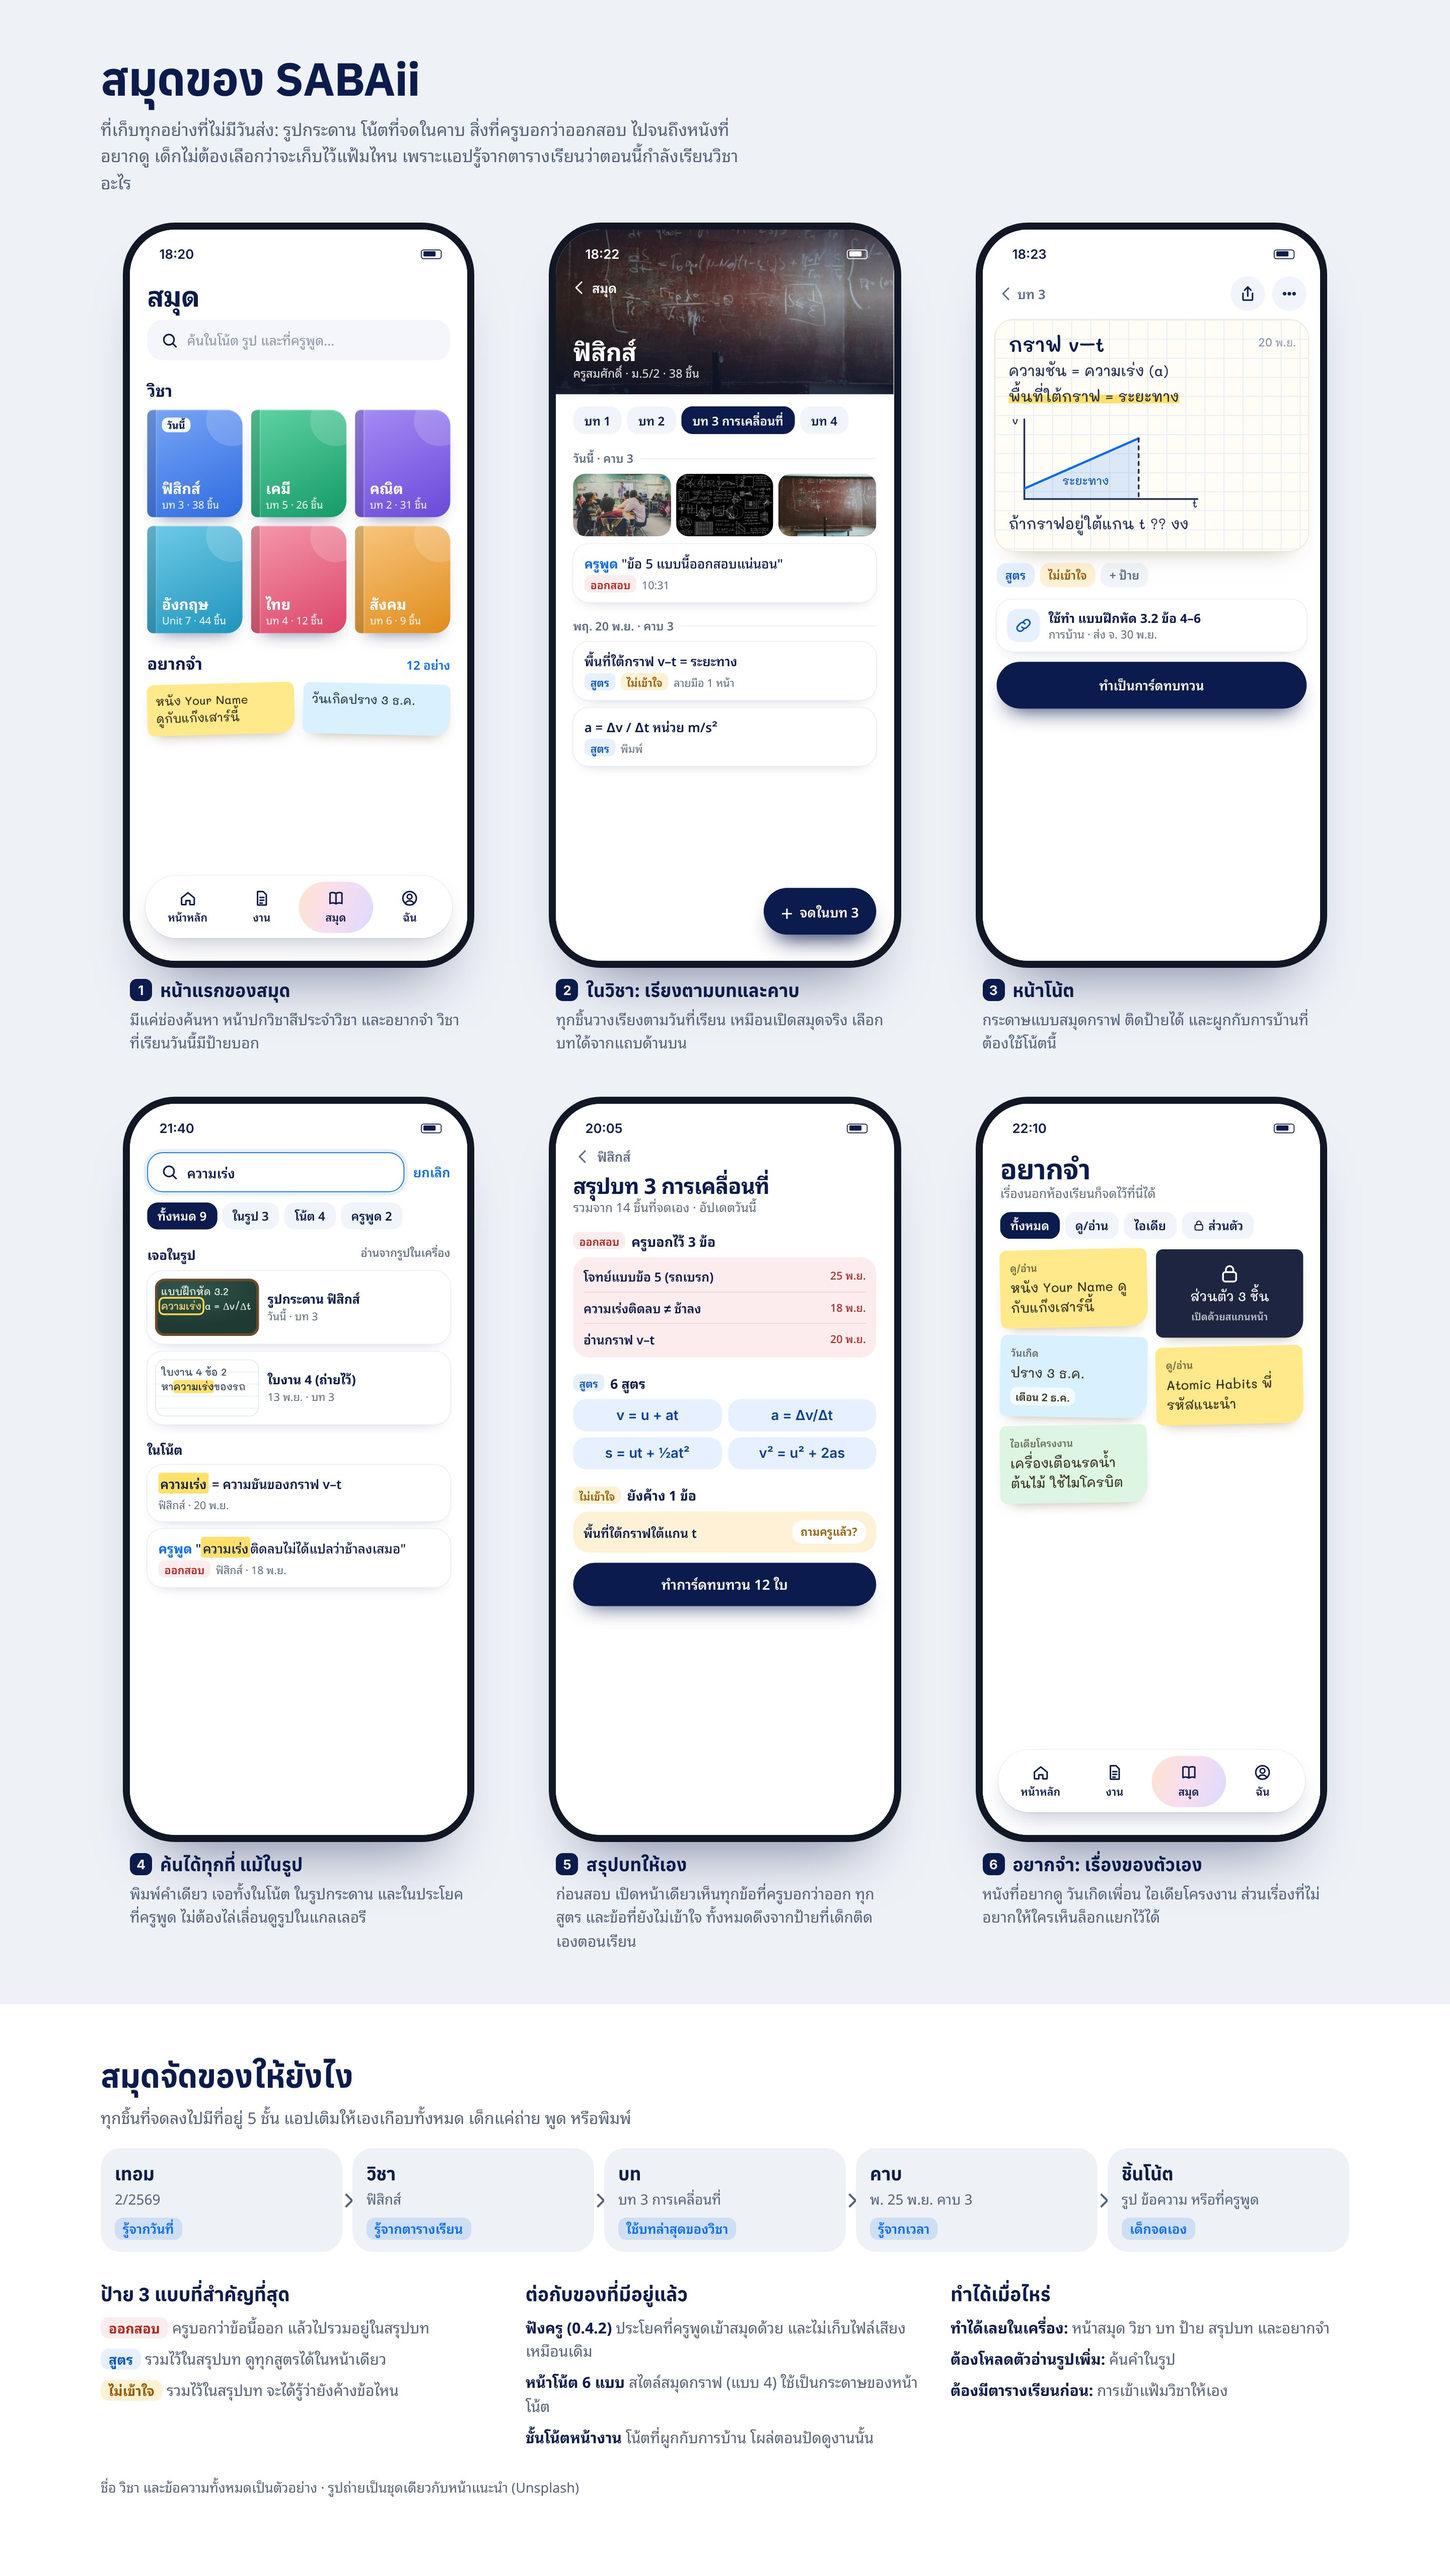
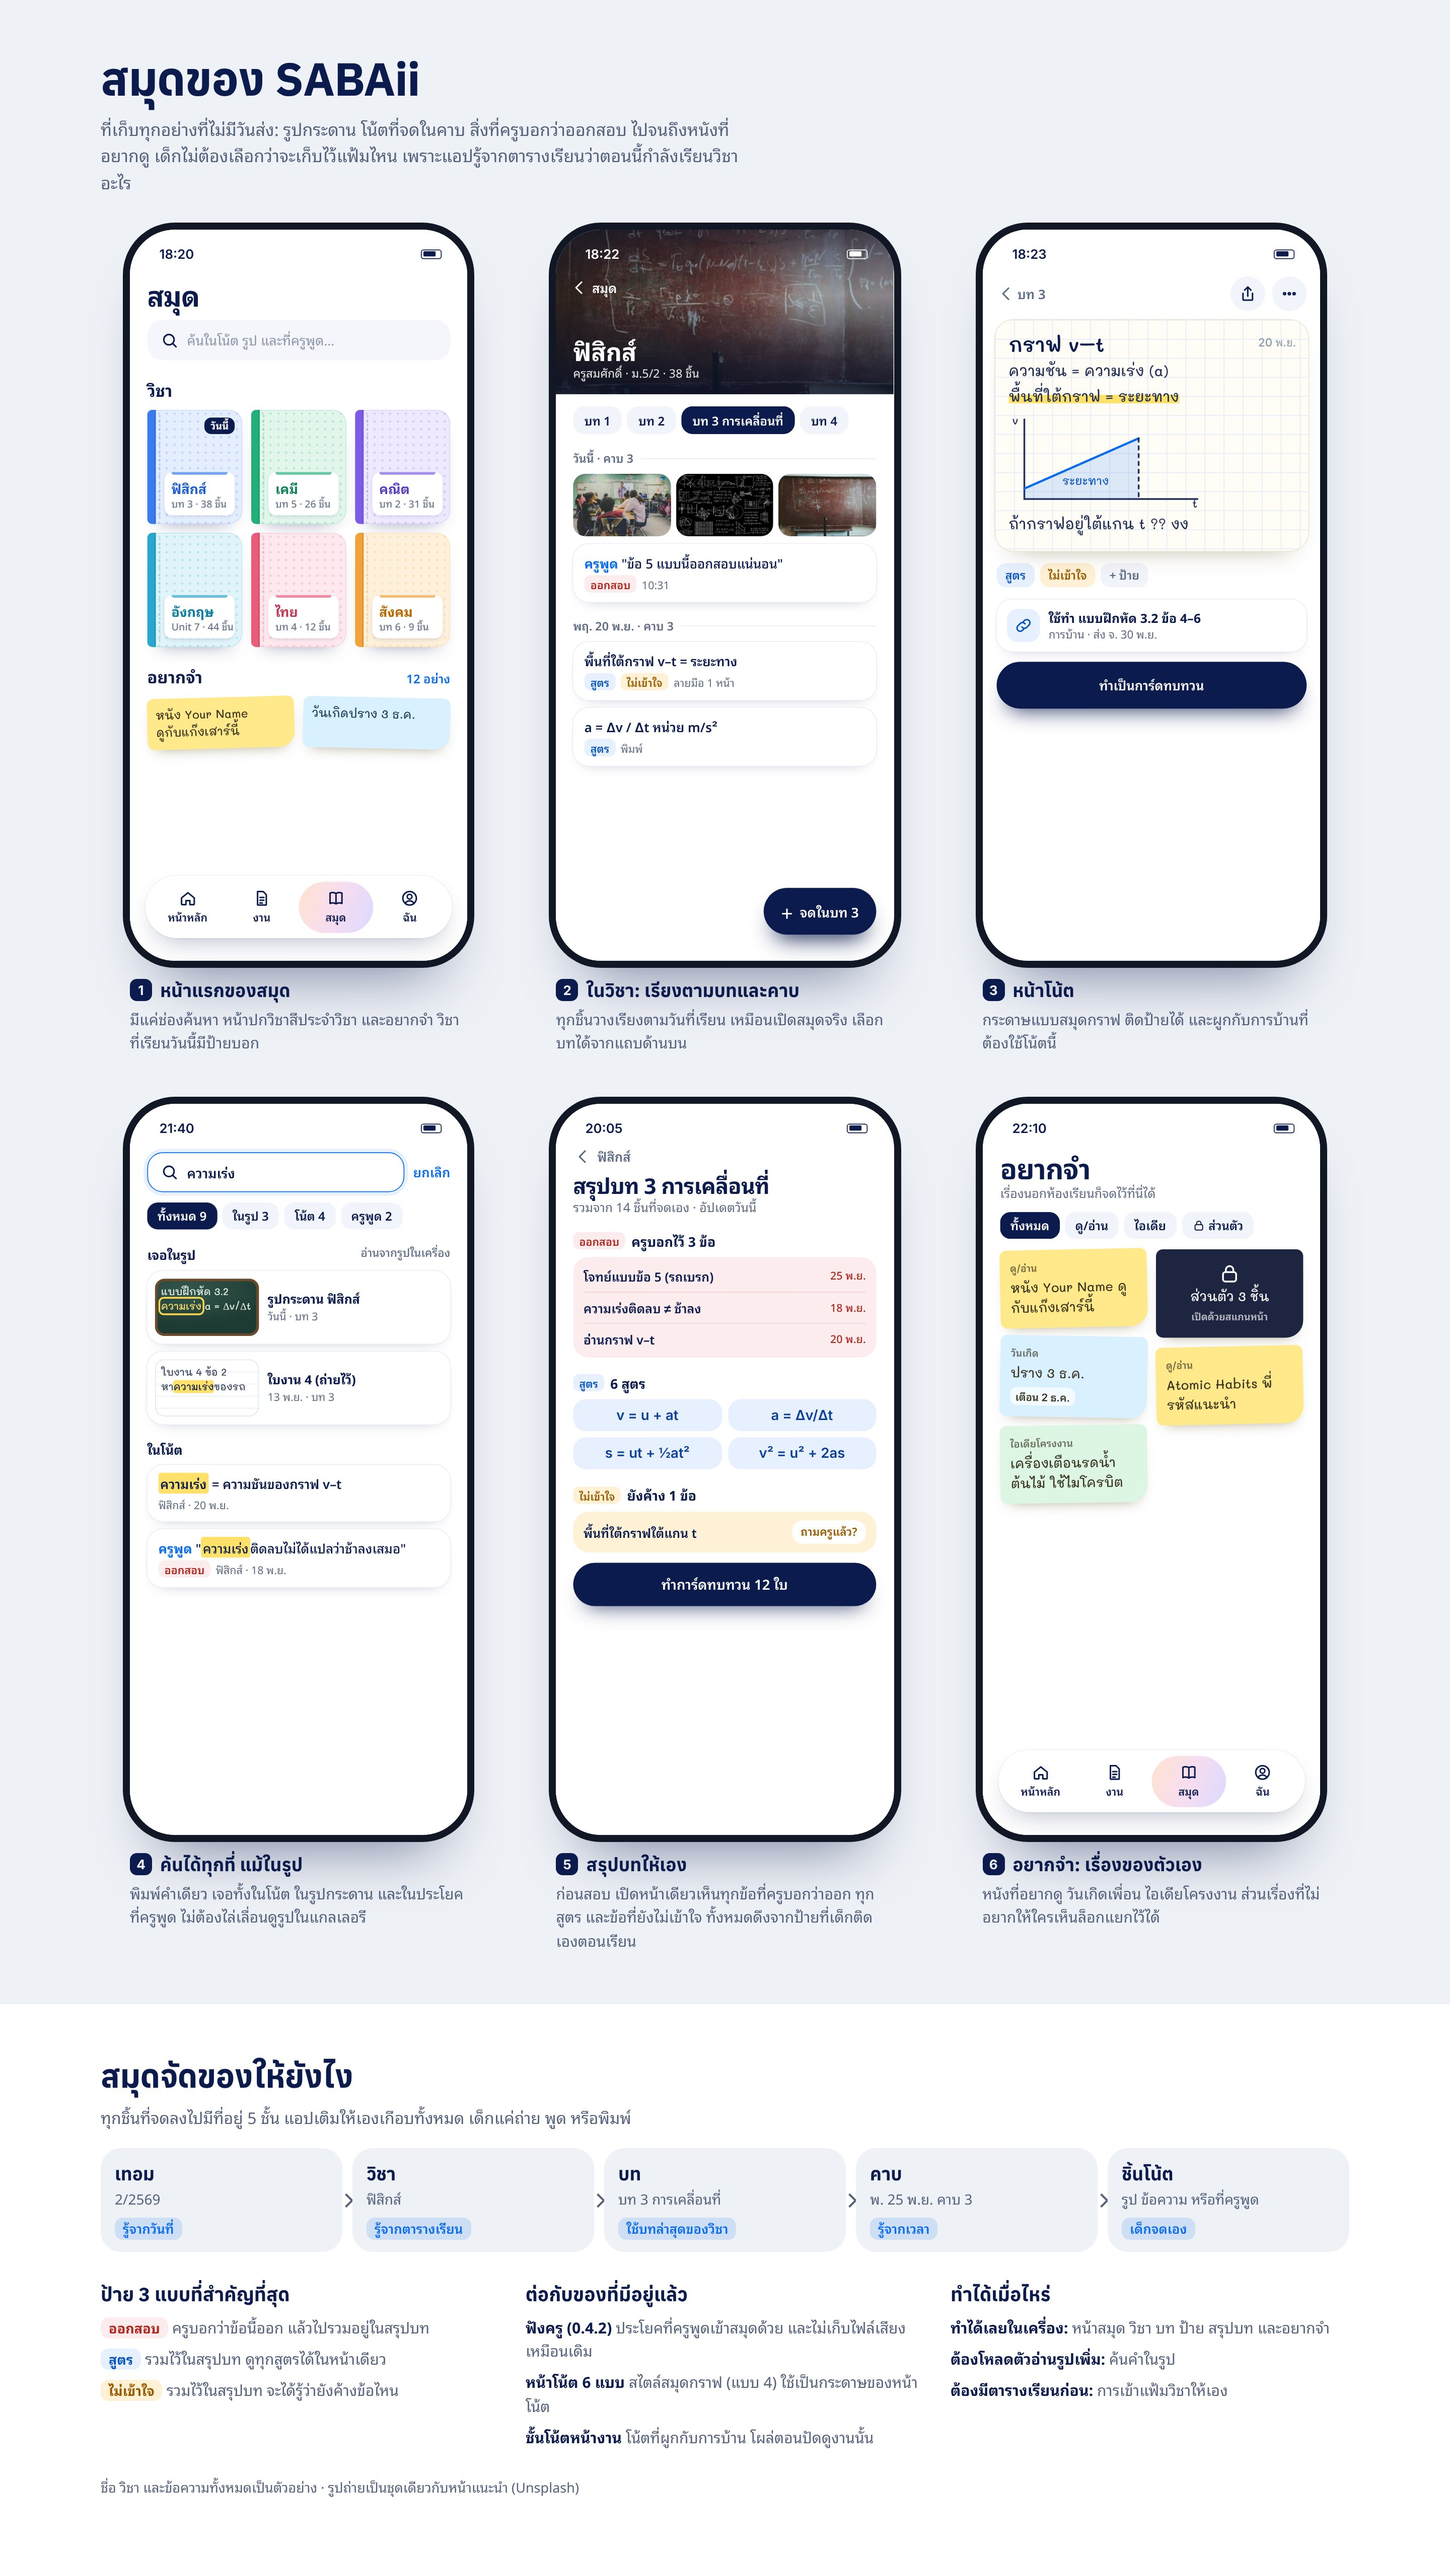
Mockup: ปกวิชาในสมุดเป็นแบบสมุดจริง (ปกพาสเทล สันสีวิชา ป้ายชื่อ)
Claude-Session: https://claude.ai/code/session_01EH8Q8dHLekRHDh5zqAHo39

Changed region(s): [[0.0938, 0.156, 0.3125, 0.312]]

diff --git a/mockups/sabaii-notebook.html b/mockups/sabaii-notebook.html
@@ -388,6 +388,17 @@ body{background:light-dark(linear-gradient(180deg,#EEF1F8,#E9EDF6 50%,#F0EEF8),#
 .sum2 h5{margin:18px 0 8px}
 /* remember */
 .wall div{border-radius:8px 8px 20px 8px}
+/* notebook covers: pastel cover, coloured spine, white name label */
+.s-ma{--bg:#EEE9FF;--fg:#5B3DC4;--c:#7C5CE6}.s-ph{--bg:#E5EEFF;--fg:#1F5FD1;--c:#3B7BF0}.s-ch{--bg:#E2F6EC;--fg:#11845A;--c:#22B07A}
+.s-en{--bg:#E0F4FA;--fg:#0F7FA3;--c:#2AA7CF}.s-th{--bg:#FFE9EE;--fg:#C23656;--c:#EC5B7A}.s-so{--bg:#FFF0DC;--fg:#B86A00;--c:#F2A23A}
+.nb2{height:132px;border-radius:6px 16px 16px 6px;position:relative;overflow:hidden;padding:10px 9px 10px 20px;display:flex;flex-direction:column;justify-content:flex-end;background-color:var(--bg);background-image:radial-gradient(color-mix(in srgb,var(--c) 22%,transparent) 1.1px,transparent 1.6px);background-size:9px 9px;box-shadow:inset 0 0 0 1px color-mix(in srgb,var(--c) 14%,transparent),0 12px 20px -16px rgba(11,27,77,.55)}
+.nb2::before{content:"";position:absolute;left:0;top:0;bottom:0;width:10px;background:var(--c);box-shadow:inset -2px 0 0 rgba(0,0,0,.08)}
+.nb2::after{content:"";position:absolute;left:14px;top:6px;bottom:6px;border-left:1.5px dashed color-mix(in srgb,var(--c) 45%,transparent)}
+.nb2 .lab{background:#fff;border-radius:9px;padding:6px 8px 6px;position:relative;z-index:1;box-shadow:0 2px 6px -3px rgba(11,27,77,.25)}
+.nb2 .lab::before{content:"";position:absolute;left:8px;right:8px;top:0;height:3px;border-radius:0 0 3px 3px;background:var(--c);opacity:.7}
+.nb2 b{display:block;font-size:15.5px;font-weight:700;color:var(--fg);line-height:1.3;margin-top:2px}
+.nb2 small{display:block;font-size:11.5px;color:#6B7790;font-weight:500;white-space:nowrap}
+.tdy2{position:absolute;top:9px;right:9px;z-index:1;background:#0B1B4D;color:#fff;border-radius:8px;padding:1px 7px;font-size:11.5px;font-weight:700}
 
 </style>
 <svg width="0" height="0" style="position:absolute">
@@ -426,12 +437,12 @@ body{background:light-dark(linear-gradient(180deg,#EEF1F8,#E9EDF6 50%,#F0EEF8),#
    <div class="srch" style="margin-top:10px"><svg class="ic"><use href="#i-search"/></svg>ค้นในโน้ต รูป และที่ครูพูด…</div>
    <div class="sec" style="margin-top:20px">วิชา</div>
    <div class="shelf">
-    <div class="nbk" style="--c:linear-gradient(155deg,#79A6F7,#2F6BE0)"><span class="lbl">วันนี้</span><div><b>ฟิสิกส์</b><small><br>บท 3 · 38 ชิ้น</small></div></div>
-    <div class="nbk" style="--c:linear-gradient(155deg,#5FD3A2,#159A68)"><span></span><div><b>เคมี</b><small><br>บท 5 · 26 ชิ้น</small></div></div>
-    <div class="nbk" style="--c:linear-gradient(155deg,#A58CF5,#6A49D8)"><span></span><div><b>คณิต</b><small><br>บท 2 · 31 ชิ้น</small></div></div>
-    <div class="nbk" style="--c:linear-gradient(155deg,#6FCBE6,#1F94BD)"><span></span><div><b>อังกฤษ</b><small><br>Unit 7 · 44 ชิ้น</small></div></div>
-    <div class="nbk" style="--c:linear-gradient(155deg,#F598AC,#DB4568)"><span></span><div><b>ไทย</b><small><br>บท 4 · 12 ชิ้น</small></div></div>
-    <div class="nbk" style="--c:linear-gradient(155deg,#F8C67E,#E08C1C)"><span></span><div><b>สังคม</b><small><br>บท 6 · 9 ชิ้น</small></div></div>
+    <div class="nb2 s-ph"><span class="tdy2">วันนี้</span><div class="lab"><b>ฟิสิกส์</b><small>บท 3 · 38 ชิ้น</small></div></div>
+    <div class="nb2 s-ch"><div class="lab"><b>เคมี</b><small>บท 5 · 26 ชิ้น</small></div></div>
+    <div class="nb2 s-ma"><div class="lab"><b>คณิต</b><small>บท 2 · 31 ชิ้น</small></div></div>
+    <div class="nb2 s-en"><div class="lab"><b>อังกฤษ</b><small>Unit 7 · 44 ชิ้น</small></div></div>
+    <div class="nb2 s-th"><div class="lab"><b>ไทย</b><small>บท 4 · 12 ชิ้น</small></div></div>
+    <div class="nb2 s-so"><div class="lab"><b>สังคม</b><small>บท 6 · 9 ชิ้น</small></div></div>
    </div>
    <div class="sec" style="margin-top:20px">อยากจำ <a>12 อย่าง</a></div>
    <div class="stk sm"><div>หนัง Your Name<br>ดูกับแก๊งเสาร์นี้</div><div>วันเกิดปราง 3 ธ.ค.</div></div>
